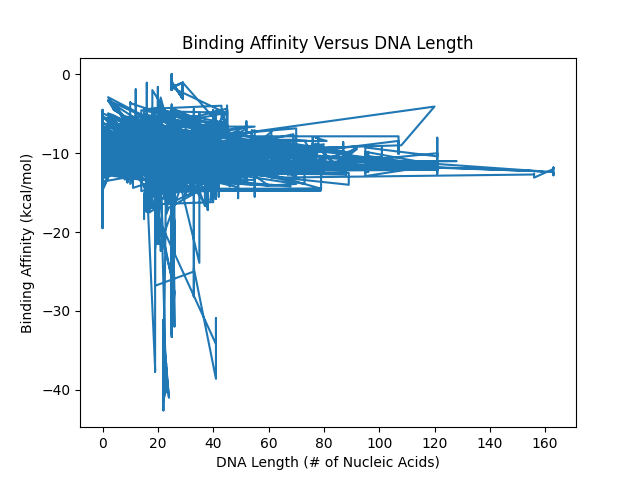
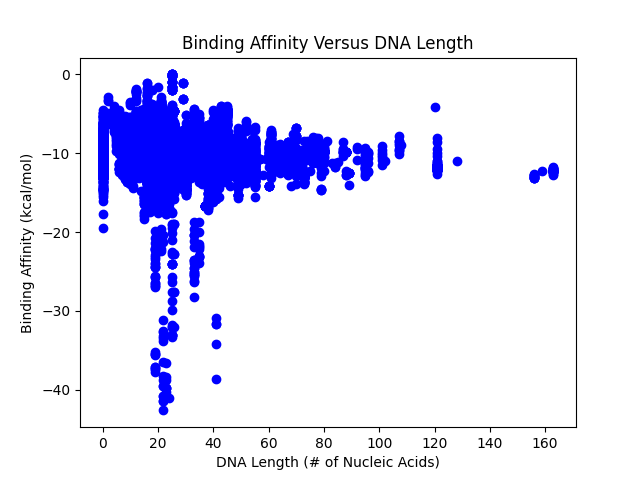
Images Fixed

Changed region(s): [[0.1562, 0.125, 0.875, 0.875]]

diff --git a/Datasets/Protein-DNA Complex/plotEnergyvsLength.py b/Datasets/Protein-DNA Complex/plotEnergyvsLength.py
@@ -16,9 +16,9 @@ with open('pronit.csv', newline='') as csvfile:
             energies.append(d)
 
 
-plt.title("Binding Affinity Versus DNA Length")
-plt.xlabel("DNA Length (# of Nucleic Acids)")
+plt.title("Binding Affinity Versus Protein Length")
+plt.xlabel("Protein Length (# of Amino Acids)")
 plt.ylabel("Binding Affinity (kcal/mol)")
-plt.plot(dnaSequences, energies)
+plt.plot(dnaSequences, energies, "ob")
 plt.show()
 
